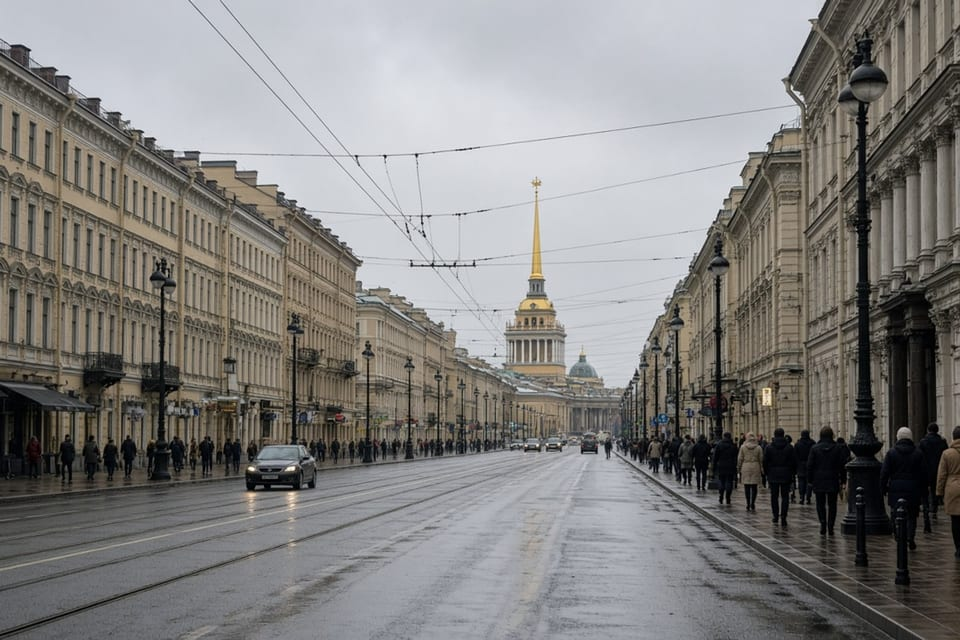
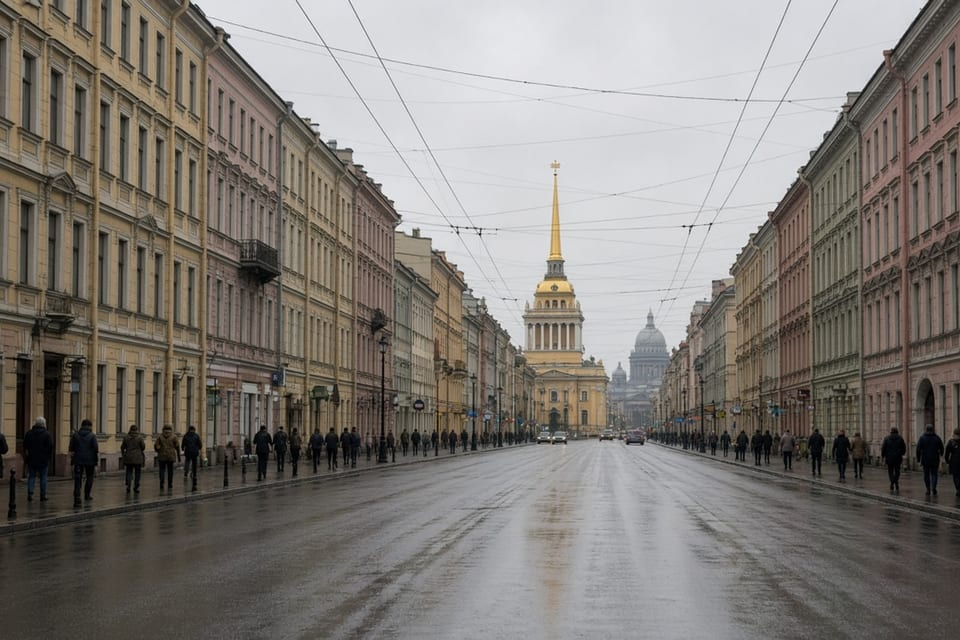
fix(hub): honest Palace Square and Nevsky stills, compact festival card
Avoid AI collage of Winter Palace joined to General Staff; Nevsky shows Admiralty spire down the avenue. Keep a single upcoming festival as a card, not a stretched row.

diff --git a/apps/web/src/components/CityRegionalEvents.client.tsx b/apps/web/src/components/CityRegionalEvents.client.tsx
@@ -60,7 +60,7 @@ export function CityRegionalEvents({ citySlug, editorial = false, nested = false
                 <li
                   key={event.id}
                   className={`rounded-2xl border p-4 transition-all duration-300 hover:-translate-y-1 hover:shadow-[0_10px_28px_-10px_hsl(221_83%_53%_/_0.28)] ${
-                    events.length === 1 ? 'w-full max-w-md' : ''
+                    events.length === 1 ? 'w-full max-w-sm shrink-0' : ''
                   } ${
                     editorial
                       ? 'border-zinc-200 bg-white hover:border-zinc-400'
